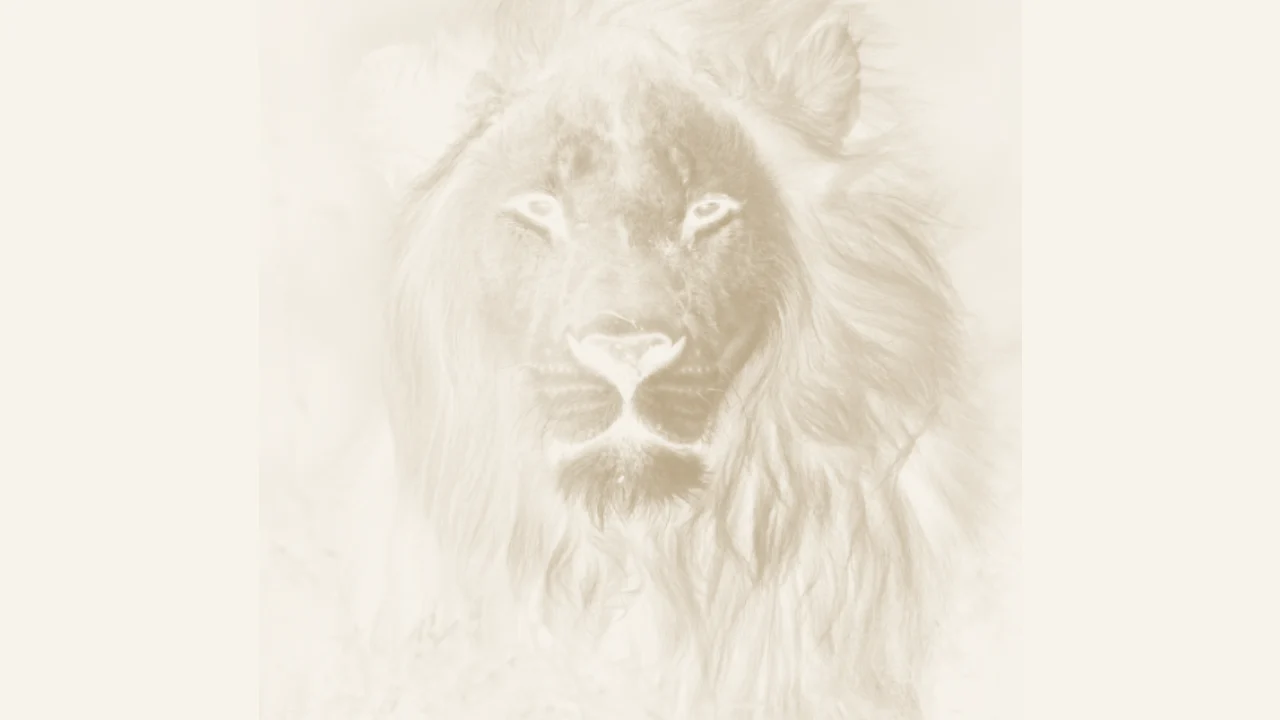
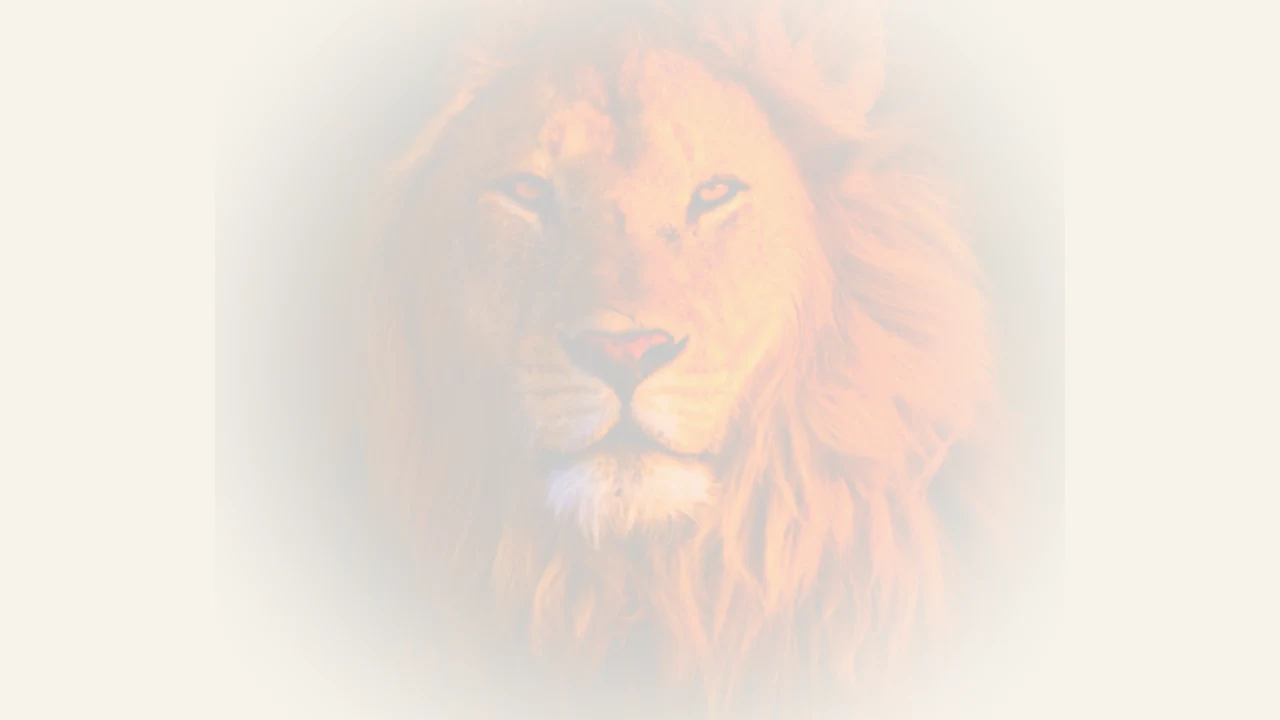
Backdrop: keep the lion's own colours
The previous version used the icon's brightness as an opacity mask and painted
the whole thing in one tan. It solved the contrast problem by discarding the
photograph: a monotone stencil with no gold in the mane and no amber in the
eyes. Asked why the lion was cream coloured, that was the answer, and it was
not a good one.

Now every pixel keeps its own hue. Saturation up first, because the next step
compresses the range and would otherwise leave it grey; then luminance
compressed into a light band, which preserves relative colour and detail while
lifting clear of dark type; then a radial fade to paper, weighted slightly by
original brightness so the square edge and the near-black surround both go.

Two settings that matter and are easy to get wrong: weighting that fade too
hard by brightness burns out the shadow detail that gives the head its shape,
and a floor much below 190 leaves the surround as a grey ring.

Darkest pixel rgb(205,202,200). The image now carries its own lightness so the
CSS veil drops to 0 and it runs at full strength. Re-measured by walking each
text node's ancestors for the background that actually paints under it: 25
nodes sit on the lion across ten views, worst pair 8.22:1.

Changed region(s): [[0.2188, 0.0, 0.75, 0.9778], [0.6875, 0.9472, 0.7188, 0.9778]]

diff --git a/scripts/backdrop-from-icon.js b/scripts/backdrop-from-icon.js
@@ -1,17 +1,24 @@
-/* Turn the app-icon lion into a page backdrop.
+/* The app-icon lion as a page backdrop, KEEPING ITS OWN COLOURS.
 
-   The icon is a near-black portrait. Dark text cannot sit on that, so rather
-   than pick a different lion this remaps THIS lion's tones into the light end
-   of the range: every level is preserved, the whole thing is just moved up
-   into a band that dark type clears. The head, the mane, the shape are all
-   still there, rendered as a watermark rather than a photograph.
+   The earlier version used the icon's brightness as an opacity mask and
+   painted it all in one tan. That solved the contrast problem and threw the
+   photograph away: a stencil, not a lion.
 
-   node lionize.js <src.png> <outDir> [lo] [hi]                              */
+   This keeps every pixel's own hue. Three steps, in this order:
+
+     1  boost saturation, because step 2 compresses the range and would
+        otherwise leave everything grey
+     2  compress luminance into a light band, which preserves relative colour
+        and detail while lifting the whole image clear of dark type
+     3  fade to paper radially, so the icon's square edge and its near-black
+        surround both disappear instead of leaving a rectangle
+
+   node lioncolor.js <src.png> <outDir> [lo] [hi] [sat]                       */
 "use strict";
 const { spawn } = require("child_process");
 const fs = require("fs"), os = require("os"), path = require("path");
 const CHROME = "C:\\Program Files\\Google\\Chrome\\Application\\chrome.exe";
-const PORT = 9491;
+const PORT = 9493;
 const sleep = ms => new Promise(r => setTimeout(r, ms));
 
 class CDP {
@@ -40,14 +47,13 @@ class CDP {
 }
 
 (async () => {
-  const [src, outDir, loArg, hiArg] = process.argv.slice(2);
-  const LO = Number(loArg || 420);   /* strength x1000 */
-  const HI = Number(hiArg || 0);
+  const [src, outDir, loA, hiA, satA] = process.argv.slice(2);
+  const LO = Number(loA || 168), HI = Number(hiA || 251), SAT = Number(satA || 2.4);
   fs.mkdirSync(outDir, { recursive: true });
 
   const dir = path.dirname(path.resolve(src)).split(path.sep).join("/");
   const file = path.basename(src);
-  const profile = path.join(os.tmpdir(), "hmh-lionize-" + Date.now());
+  const profile = path.join(os.tmpdir(), "hmh-lioncol-" + Date.now());
   const chrome = spawn(CHROME, ["--headless=new", "--disable-gpu",
     "--remote-debugging-port=" + PORT, "--user-data-dir=" + profile,
     "--allow-file-access-from-files", "--no-first-run", "about:blank"], { stdio: "ignore" });
@@ -72,44 +78,67 @@ class CDP {
     const W = 1280, H = 720;
     const c = document.createElement("canvas"); c.width = W; c.height = H;
     const g = c.getContext("2d", { alpha: false });
-    /* Fill BLACK, not cream. The mapping below turns brightness into ink, so
-       anything untouched must start at zero brightness or the empty margins
-       come out as solid tan bars. */
-    g.fillStyle = "#000000"; g.fillRect(0, 0, W, H);
 
-    /* The icon is square. Draw it tall and centred so the head fills the
-       height, then let the cream field carry the rest of the width. */
-    const side = Math.round(H * 1.06);
+    const cream = [247, 243, 235];
+    g.fillStyle = "rgb(" + cream.join(",") + ")"; g.fillRect(0, 0, W, H);
+
+    const side = Math.round(H * 1.18);
     const dx = Math.round((W - side) / 2), dy = Math.round((H - side) / 2);
     g.drawImage(img, dx, dy, side, side);
 
     const d = g.getImageData(0, 0, W, H);
     const px = d.data;
-    const STRENGTH = ${LO} / 1000;          /* reused as the mark's strength */
-    const cream = [247, 243, 235];
-    const tint  = [138, 108, 58];           /* warm tan, sits in the brand's gold family */
+    const LO = ${LO}, HI = ${HI}, SPAN = HI - LO, SAT = ${SAT};
+    const cx = W / 2, cy = H / 2;
+    const rIn = H * 0.30, rOut = H * 0.72;
 
-    /* The icon is a bright lion on a near-black surround. Using its own
-       brightness as the mark's opacity means the lion paints in warm tan and
-       the black surround becomes paper exactly, so there is no rectangle edge
-       to hide and no seam when the page crops it. */
-    for (let i = 0; i < px.length; i += 4) {
-      const L = (0.2126 * px[i] + 0.7152 * px[i+1] + 0.0722 * px[i+2]) / 255;
-      const a = L * STRENGTH;
-      px[i]     = cream[0] * (1 - a) + tint[0] * a;
-      px[i + 1] = cream[1] * (1 - a) + tint[1] * a;
-      px[i + 2] = cream[2] * (1 - a) + tint[2] * a;
+    for (let y = 0; y < H; y++) {
+      for (let x = 0; x < W; x++) {
+        const i = (y * W + x) * 4;
+
+        /* inside the drawn square? outside it, leave the cream alone */
+        const inSquare = x >= dx && x < dx + side && y >= dy && y < dy + side;
+
+        let r = px[i], gg = px[i + 1], b = px[i + 2];
+
+        /* 1. saturation, around the pixel's own grey */
+        const grey = 0.2126 * r + 0.7152 * gg + 0.0722 * b;
+        r  = grey + (r  - grey) * SAT;
+        gg = grey + (gg - grey) * SAT;
+        b  = grey + (b  - grey) * SAT;
+
+        /* 2. compress into the light band */
+        r  = LO + (Math.max(0, Math.min(255, r))  / 255) * SPAN;
+        gg = LO + (Math.max(0, Math.min(255, gg)) / 255) * SPAN;
+        b  = LO + (Math.max(0, Math.min(255, b))  / 255) * SPAN;
+
+        /* 3. fade to paper towards the edges, and everywhere outside the square */
+        const dist = Math.hypot(x - cx, y - cy);
+        let a = inSquare ? 1 - Math.max(0, Math.min(1, (dist - rIn) / (rOut - rIn))) : 0;
+        a = a * a * (3 - 2 * a);   /* smoothstep, so there is no visible ring */
+
+        /* Weight by the pixel's ORIGINAL brightness as well. The icon's
+           near-black surround would otherwise compress to a flat grey and
+           read as a halo around the head; this lets it fall away to paper
+           while the lit mane keeps full strength and full colour. */
+        const L0 = grey / 255;
+        a *= 0.72 + 0.28 * Math.pow(L0, 0.6);
+
+        px[i]     = cream[0] * (1 - a) + r  * a;
+        px[i + 1] = cream[1] * (1 - a) + gg * a;
+        px[i + 2] = cream[2] * (1 - a) + b  * a;
+      }
     }
     g.putImageData(d, 0, 0);
 
-    /* report the darkest pixel: the number that decides if this is usable */
     const out = g.getImageData(0, 0, W, H).data;
-    let min = 255;
-    for (let i = 0; i < out.length; i += 4 * 7) {
-      const y = 0.2126 * out[i] + 0.7152 * out[i+1] + 0.0722 * out[i+2];
-      if (y < min) min = y;
+    let min = 255, minPx = null;
+    for (let i = 0; i < out.length; i += 4 * 5) {
+      const y2 = 0.2126 * out[i] + 0.7152 * out[i+1] + 0.0722 * out[i+2];
+      if (y2 < min) { min = y2; minPx = [out[i], out[i+1], out[i+2]]; }
     }
-    return JSON.stringify({ min: Math.round(min), data: c.toDataURL("image/webp", 0.86) });
+    return JSON.stringify({ min: Math.round(min), minPx: minPx.map(Math.round),
+                            data: c.toDataURL("image/webp", 0.88) });
   })()`;
 
   const r = await cdp.send("Runtime.evaluate", { expression: expr, awaitPromise: true, returnByValue: true });
@@ -118,8 +147,15 @@ class CDP {
   const buf = Buffer.from(o.data.split(",")[1], "base64");
   const outFile = path.join(outDir, "backdrop.webp");
   fs.writeFileSync(outFile, buf);
-  console.log("  mark strength " + (LO/1000).toFixed(2) + "   darkest pixel " + o.min +
-              "   " + Math.round(buf.length / 1024) + "kb   -> " + outFile);
+
+  /* what navy type will actually get on the worst pixel */
+  const rl = (a) => { const f = a.map(v => { v /= 255; return v <= 0.03928 ? v/12.92 : Math.pow((v+0.055)/1.055, 2.4); });
+                      return 0.2126*f[0] + 0.7152*f[1] + 0.0722*f[2]; };
+  const navy = rl([33,49,59]), bg = rl(o.minPx);
+  const ratio = ((Math.max(navy,bg)+0.05)/(Math.min(navy,bg)+0.05)).toFixed(2);
+  console.log("  band [" + LO + "," + HI + "]  sat " + SAT +
+              "   darkest rgb(" + o.minPx.join(",") + ")   navy " + ratio + ":1   " +
+              Math.round(buf.length/1024) + "kb   -> " + outFile);
 
   chrome.kill(); await sleep(300);
   try { fs.rmSync(profile, { recursive: true, force: true }); } catch (e) {}

diff --git a/public/console/console.css b/public/console/console.css
@@ -673,7 +673,7 @@ body {
      bottoms out at rgb(162,144,128), which navy text clears at 4.5:1 even with
      NO veil at all. A photograph with real shadows in it caps out around 0.95
      no matter what you do, which is why this one is deliberately high-key. */
-  --backdrop-veil: 0.10;
+  --backdrop-veil: 0;
   --side-w: 236px;
 }
 

diff --git a/public/app/styles.css b/public/app/styles.css
@@ -987,7 +987,7 @@ main {
    The home hero photograph sits on top of this and is unaffected.
    ========================================================================== */
 
-:root { --backdrop-veil: 0.10; }
+:root { --backdrop-veil: 0; }
 
 .backdrop {
   position: fixed; inset: 0; z-index: 0; pointer-events: none;

diff --git a/public/app/sw.js b/public/app/sw.js
@@ -6,7 +6,7 @@
    correct matters more than shaving milliseconds, and the cache is still there
    as a fallback when the phone is offline. */
 
-var CACHE = "heartland-v16";
+var CACHE = "heartland-v17";
 
 var SHELL = [
   "./",

diff --git a/docs/BACKDROP.md b/docs/BACKDROP.md
@@ -10,21 +10,19 @@ processed so dark text can sit on it.
 
 ## Regenerating it
 
-    node scripts/backdrop-from-icon.js public/app/icons/icon-512.png <outDir> [strength]
+    node scripts/backdrop-from-icon.js public/app/icons/icon-512.png <outDir> [lo] [hi] [sat]
 
-`strength` is the mark's opacity x1000. Installed at **700**.
+Installed at **188 252 3.6**.
 
-| strength | darkest pixel | navy text | grey text |
+| lo / hi / sat | darkest pixel | navy text | look |
 |---|---|---|---|
-| 420 | rgb(201,186,161) | 7.05:1 | 2.80:1 |
-| 550 | rgb(187,169,138) | 5.83:1 | 2.32:1 |
-| **700** | **rgb(171,149,111)** | **4.61:1** | 1.83:1 |
-| 850 | rgb(154,128,85) | 3.58:1 | fails |
-| 1000 | rgb(138,108,58) | fails | fails |
+| 168 251 2.4 | rgb(168,168,169) | 5.64:1 | deepest, visible grey halo |
+| **188 252 3.6** | **rgb(205,202,200)** | **8.22:1** | installed |
+| 196 252 3.2 | rgb(210,208,208) | 8.73:1 | softer |
 
-Two alternates are in `docs/`: `backdrop-alt-lion-fainter.webp` (420) and
-`backdrop-alt-lion-stronger.webp` (850, **navy fails AA at 3.58:1** — only for a
-page with no loose text on it).
+Two alternates in `docs/`: `backdrop-alt-lion-softer.webp` and
+`backdrop-alt-lion-deeper.webp`. Copy either over
+`public/console/img/backdrop.webp` and `public/app/img/backdrop.webp`.
 
 ## How the processing works, and why
 
@@ -33,15 +31,27 @@ impossible: dark type cannot sit on a dark photograph at any strength you would
 actually see. Measured on eight ordinary photographs, the strongest any could be
 shown while text still cleared 4.5:1 was **3-4%**.
 
-So the script uses the icon's own **brightness as the mark's opacity**, painting
-in warm tan on cream. The lion's mane and face become the mark; the black
-surround resolves to paper exactly. Two consequences worth knowing:
+An earlier version solved that by using the icon's brightness as an opacity mask
+and painting the whole thing in a single tan. It worked and it threw the
+photograph away: a monotone stencil, no golds, no amber eyes. **Keep the
+colour.** Three steps, in this order:
 
-- there is no rectangle edge to feather away, and no seam when the page crops it
-- the output's darkest pixel is a number you choose, not one you inherit
+1. **Saturation up.** Step 2 compresses the range and would otherwise leave
+   everything grey.
+2. **Compress luminance into a light band** (`lo`-`hi`). Relative colour and
+   detail survive; the whole image lifts clear of dark type. The output's
+   darkest pixel becomes a number you choose rather than one you inherit.
+3. **Fade to paper radially**, weighted slightly by each pixel's original
+   brightness. This is what makes the icon's square edge and its near-black
+   surround disappear instead of leaving a rectangle or a grey halo.
 
-Fill the canvas **black** before drawing, not cream. Brightness becomes ink, so
-untouched margins must start at zero or they come out as solid tan bars.
+Two traps in that third step. Weight the fade by brightness too hard (0.18 +
+0.82L) and the shadow detail that gives the head its shape burns away, leaving
+something that reads as fire rather than a lion; 0.72 + 0.28L holds. And leave
+the floor too low and the near-black surround compresses to a grey ring around
+the head, which is why `lo` sits near 190 rather than near 168.
+
+Because the image now carries its own lightness, `--backdrop-veil` is **0**.
 
 ## Text on the backdrop
 
